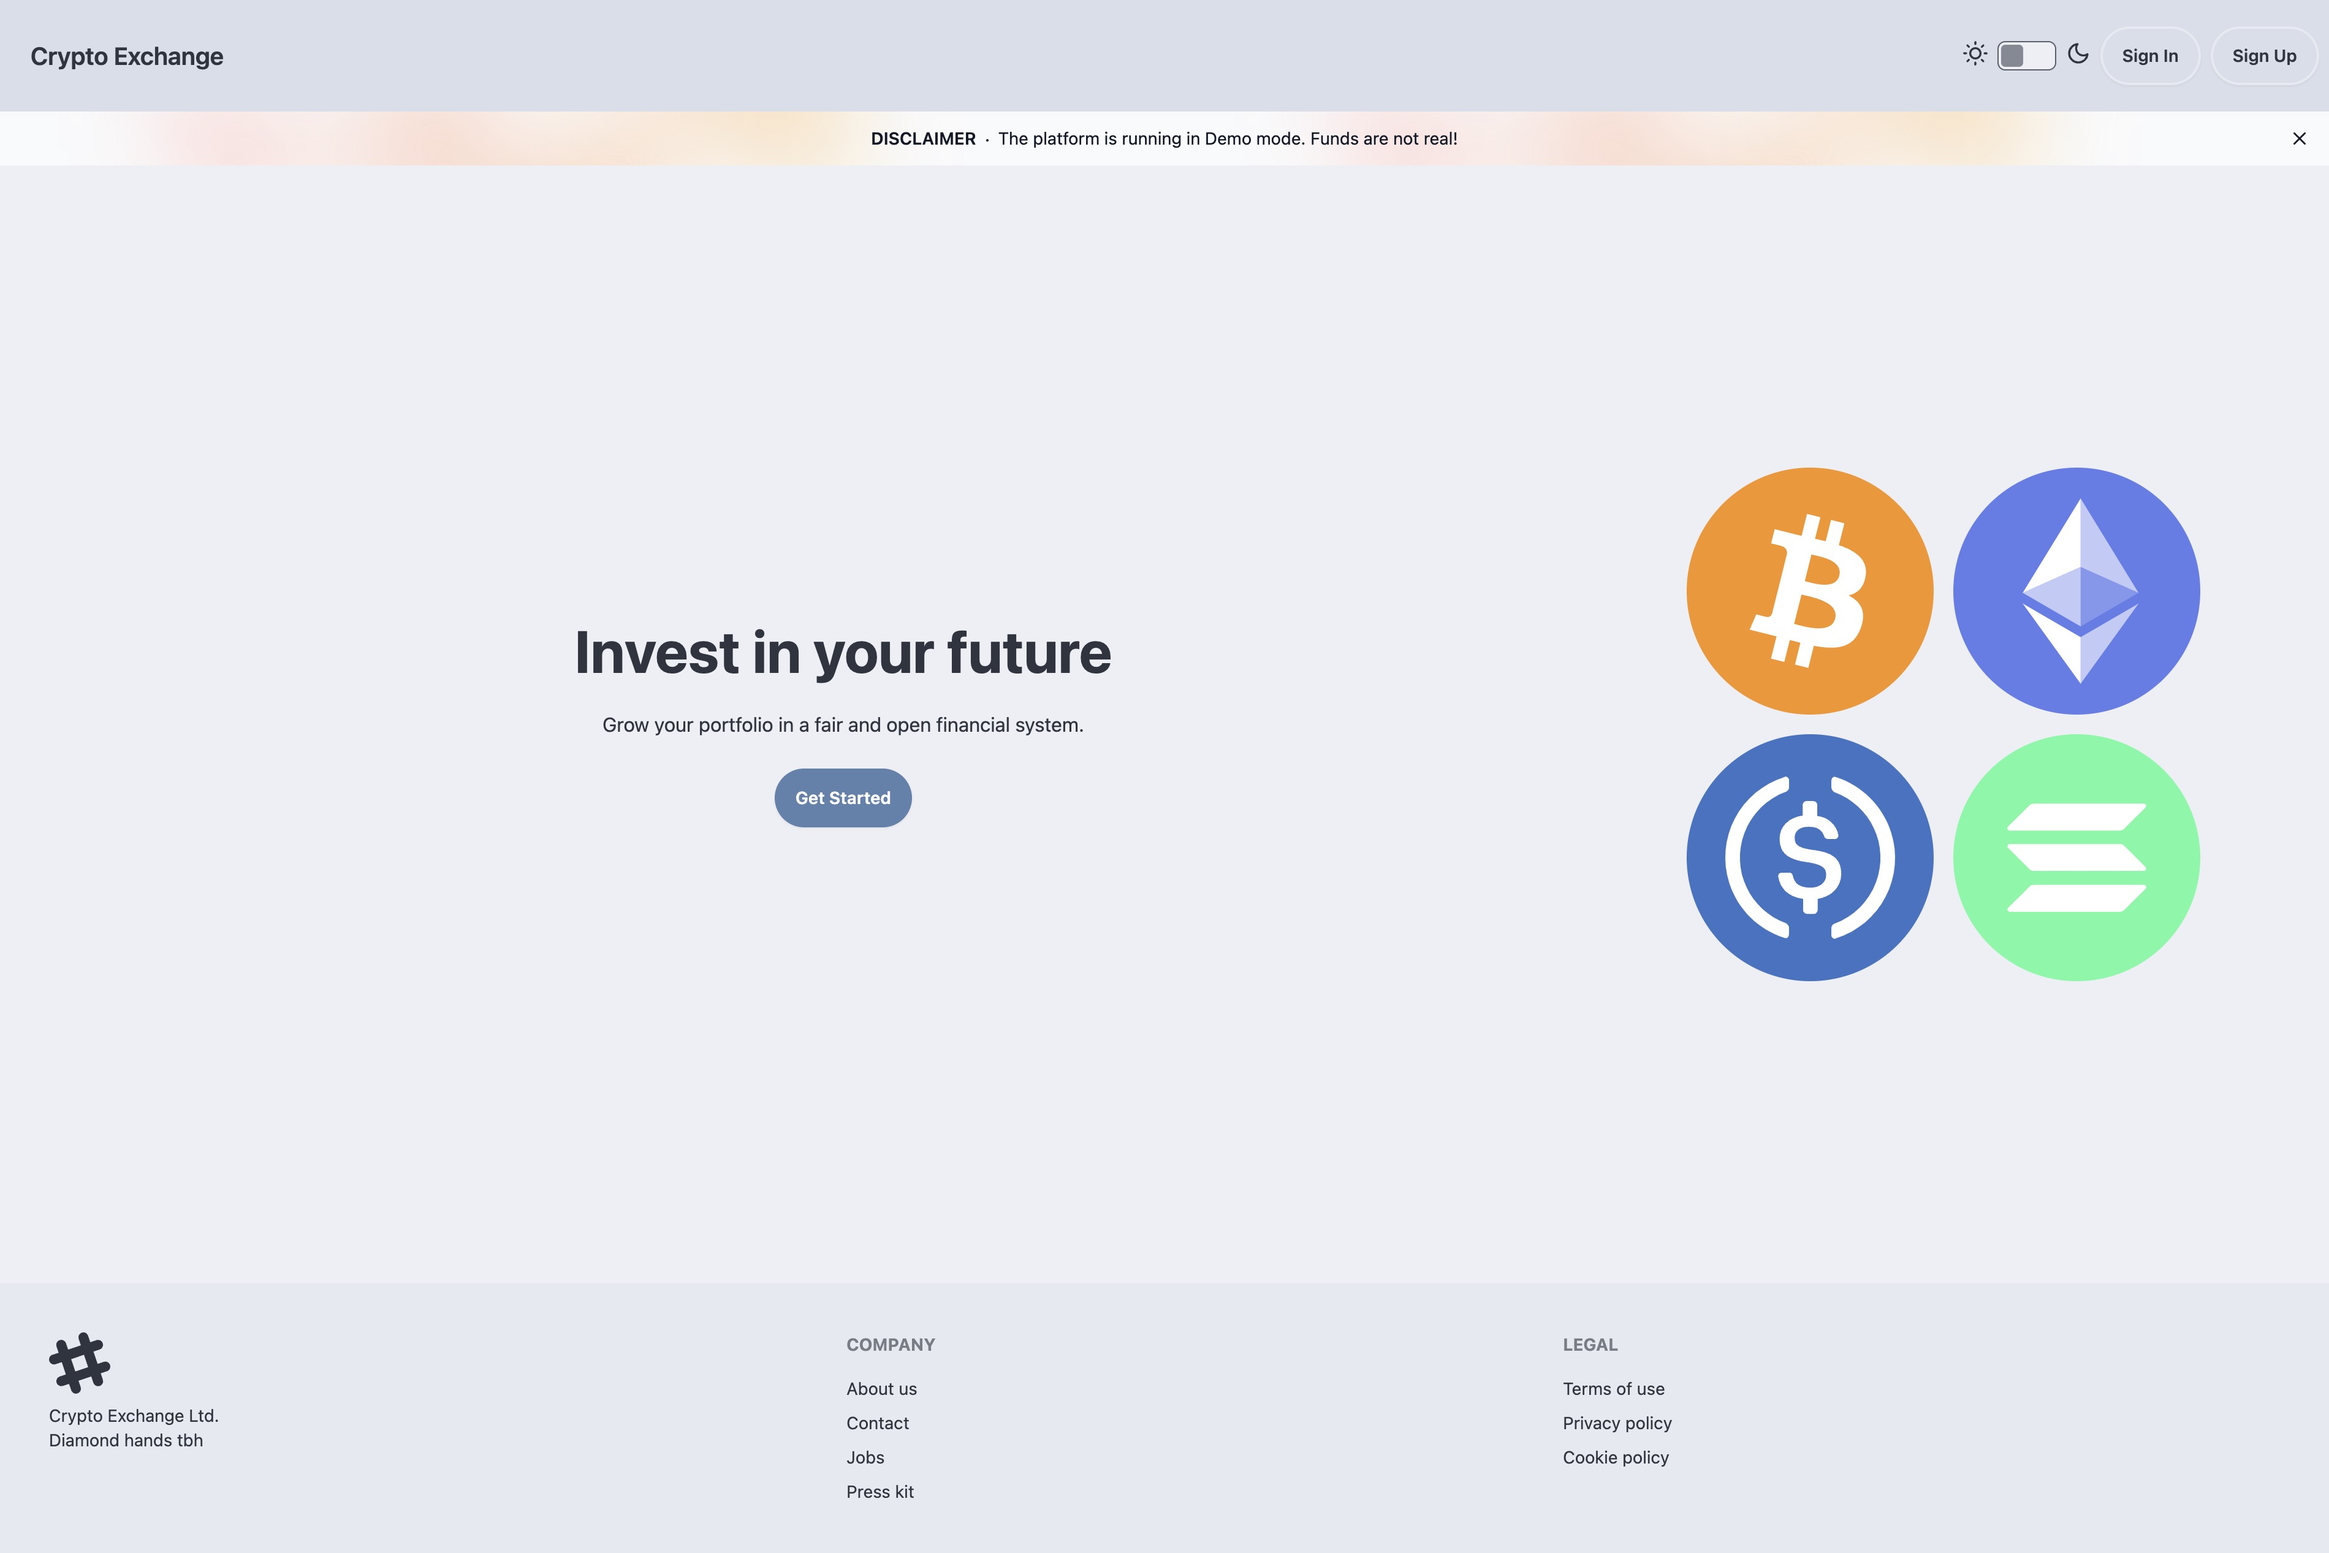
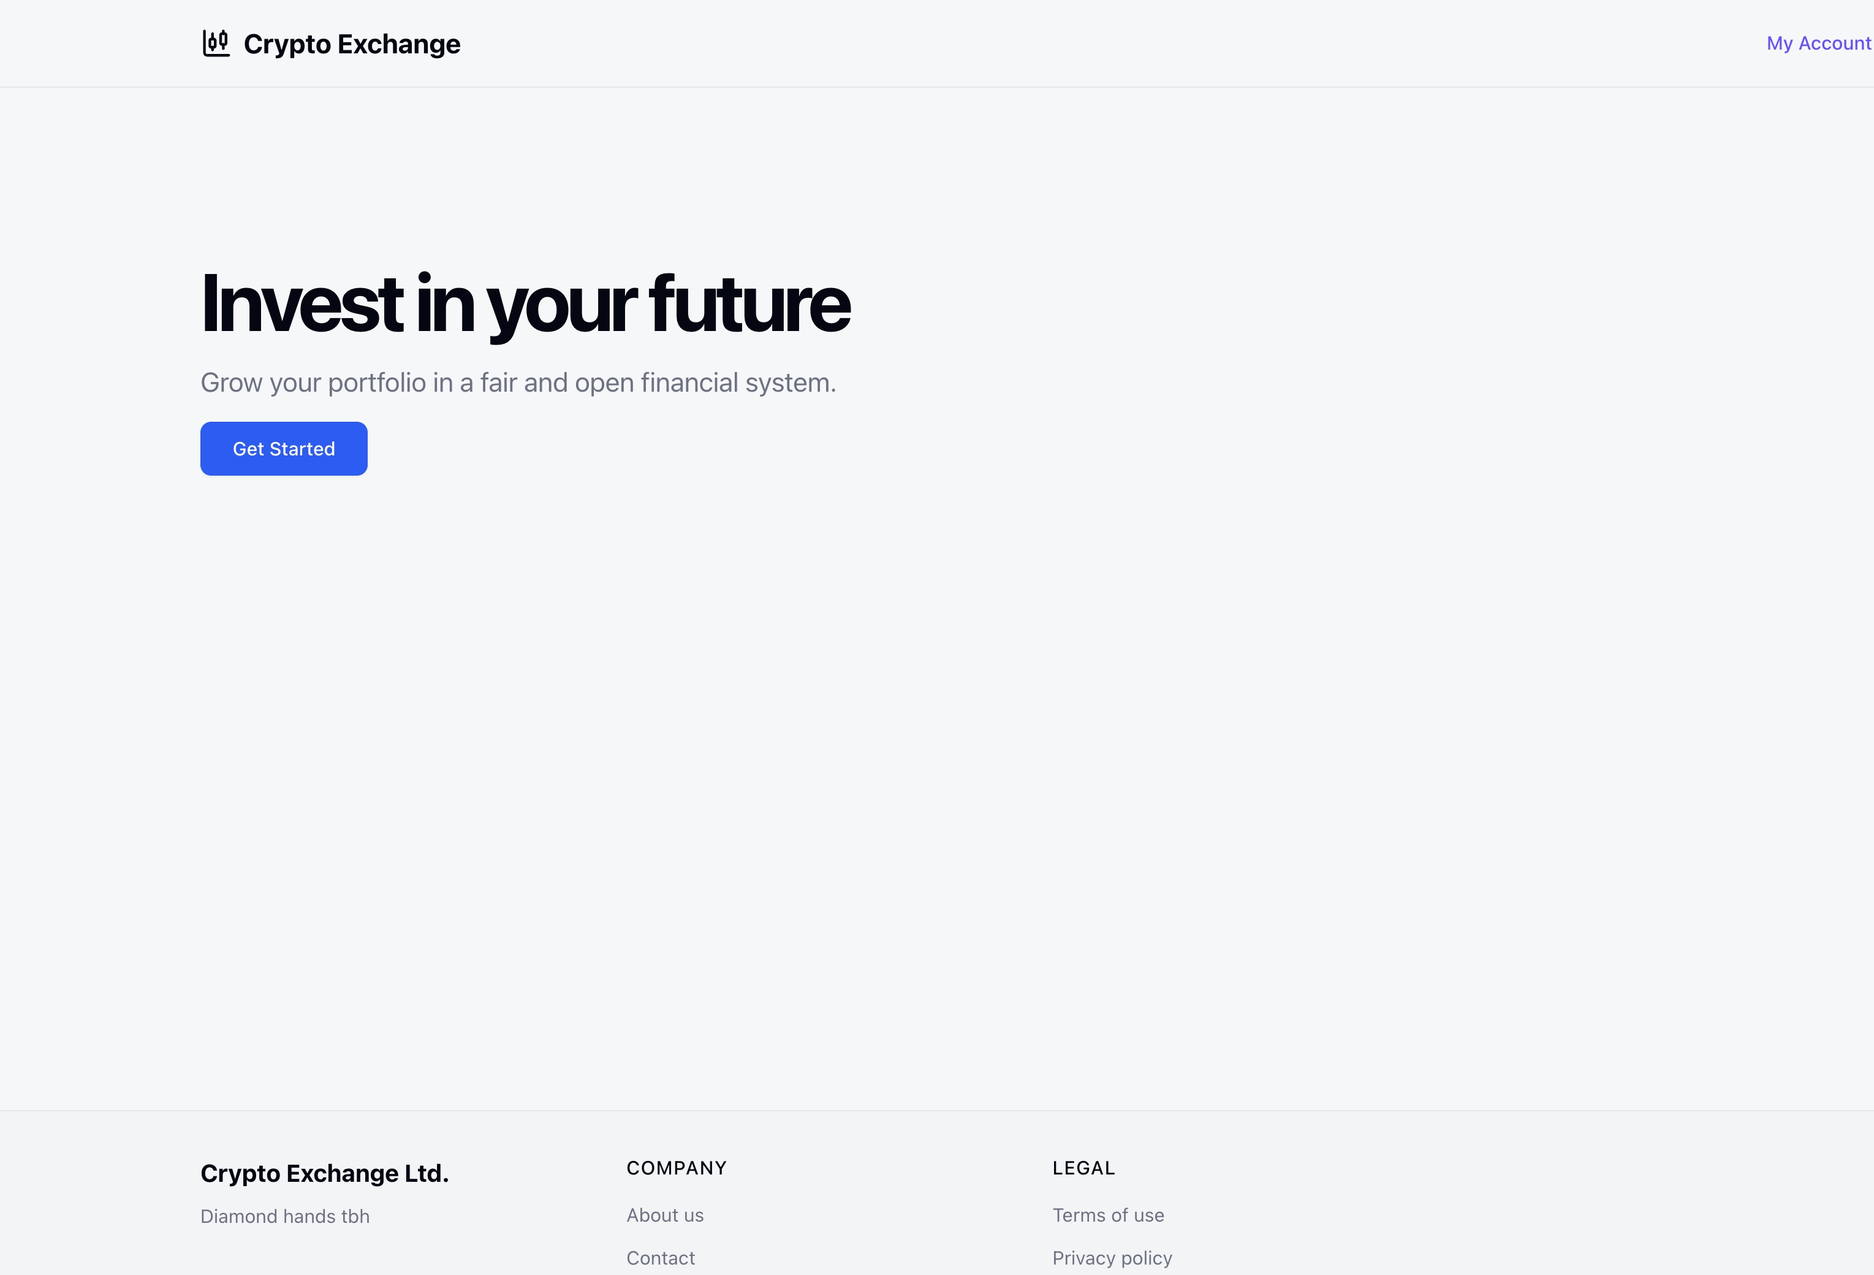
docs: refresh README and screenshots

diff --git a/LICENSE.md b/LICENSE.md
@@ -1,29 +1,21 @@
-Project: exchange-orderbook
-Author: (GitHub: mental32, email: mentalfoss@gmail.com)
-Repository: https://github.com/mental32/exchange-orderbook
-License: Unlicense (public domain dedication)
+MIT License
 
-This is free and unencumbered software released into the public domain.
+Copyright (c) 2025 Chris (mental32)
 
-Anyone is free to copy, modify, publish, use, compile, sell, or
-distribute this software, either in source code form or as a compiled
-binary, for any purpose, commercial or non-commercial, and by any
-means.
+Permission is hereby granted, free of charge, to any person obtaining a copy
+of this software and associated documentation files (the "Software"), to deal
+in the Software without restriction, including without limitation the rights
+to use, copy, modify, merge, publish, distribute, sublicense, and/or sell
+copies of the Software, and to permit persons to whom the Software is
+furnished to do so, subject to the following conditions:
 
-In jurisdictions that recognize copyright laws, the author or authors
-of this software dedicate any and all copyright interest in the
-software to the public domain. We make this dedication for the benefit
-of the public at large and to the detriment of our heirs and
-successors. We intend this dedication to be an overt act of
-relinquishment in perpetuity of all present and future rights to this
-software under copyright law.
+The above copyright notice and this permission notice shall be included in all
+copies or substantial portions of the Software.
 
-THE SOFTWARE IS PROVIDED "AS IS", WITHOUT WARRANTY OF ANY KIND,
-EXPRESS OR IMPLIED, INCLUDING BUT NOT LIMITED TO THE WARRANTIES OF
-MERCHANTABILITY, FITNESS FOR A PARTICULAR PURPOSE AND NONINFRINGEMENT.
-IN NO EVENT SHALL THE AUTHORS BE LIABLE FOR ANY CLAIM, DAMAGES OR
-OTHER LIABILITY, WHETHER IN AN ACTION OF CONTRACT, TORT OR OTHERWISE,
-ARISING FROM, OUT OF OR IN CONNECTION WITH THE SOFTWARE OR THE USE OR
-OTHER DEALINGS IN THE SOFTWARE.
-
-For more information, please refer to <https://unlicense.org>
+THE SOFTWARE IS PROVIDED "AS IS", WITHOUT WARRANTY OF ANY KIND, EXPRESS OR
+IMPLIED, INCLUDING BUT NOT LIMITED TO THE WARRANTIES OF MERCHANTABILITY,
+FITNESS FOR A PARTICULAR PURPOSE AND NONINFRINGEMENT. IN NO EVENT SHALL THE
+AUTHORS OR COPYRIGHT HOLDERS BE LIABLE FOR ANY CLAIM, DAMAGES OR OTHER
+LIABILITY, WHETHER IN AN ACTION OF CONTRACT, TORT OR OTHERWISE, ARISING FROM,
+OUT OF OR IN CONNECTION WITH THE SOFTWARE OR THE USE OR OTHER DEALINGS IN THE
+SOFTWARE.

diff --git a/README.md b/README.md
@@ -1,25 +1,18 @@
-# _Greetings!_ 👋
-
 exchange-orderbook is an implementation of a full-stack, [Auction-market](https://www.investopedia.com/terms/a/auctionmarket.asp), spot-exchange; like Coinbase, Kraken, or Binance
 supporting Bitcoin (BTC), Ether (ETH), Solana (SOL), and USDC.
 
 The frontend was built using [NextJS](https://nextjs.org/), [TailwindCSS](https://tailwindcss.com), [shadcn/ui](https://ui.shadcn.com/), and [Clerk](https://clerk.com/). The database is [Postgres](https://www.postgresql.org/), for the [matching engine](https://www.investopedia.com/articles/active-trading/042414/youd-better-know-your-highfrequency-trading-terminology.asp#toc-matching-engine), [settlement layer](https://groww.in/p/what-is-trade-settlement), and blockchain integration [Rust](https://www.rust-lang.org/) was used.  Check out the [screenshots](#screenshots)!
 
-_**Why make this?**_ - Fun mostly. I don't get to do a lot of full stack work at day job so this is a great way to stretch my virtual legs every once in a while.
+_**How do I run this?**_ - `docker compose up` should be enough. See the `docker-compose.yml` file for more details.
 
-_**How do I run this?**_ - A `docker-compose.yml` file is provided so running `docker compose up` should be enough; if it is not then please open an issue and let me know.
+_**Why make this?**_ - Fun. I don't get to do a lot of full stack work at `$dayjob` so this is a great way to stretch my virtual legs every once in a while.
 
-_**Do I have permission to run this?**_ - Yes, you have permission to run the software on your personal device for educational purposes only. This means you can use the software to learn and understand the coding practices and techniques employed.
-However, you are not allowed to use the software for any commercial activities, nor can you modify or distribute the software in any form, whether modified or original.
+_**Do I have permission to run this?**_ - Yes the code here is all MIT licensed.
 
-use GitHub discussions for questions, otherwise e-mail `mentalfoss+exob@gmail.com`
+Use GitHub discussions for questions, otherwise e-mail `mentalfoss+exob@gmail.com`
 
 ## Screenshots
 
-### Landing Page
-
 ![landing-page](./screenshots/landing-page.jpeg)
 
-### Sign-In Page
-
-![Sign-In Page](./screenshots/sign-in-page.jpeg)
+![Home](./screenshots/home-page.jpeg)
